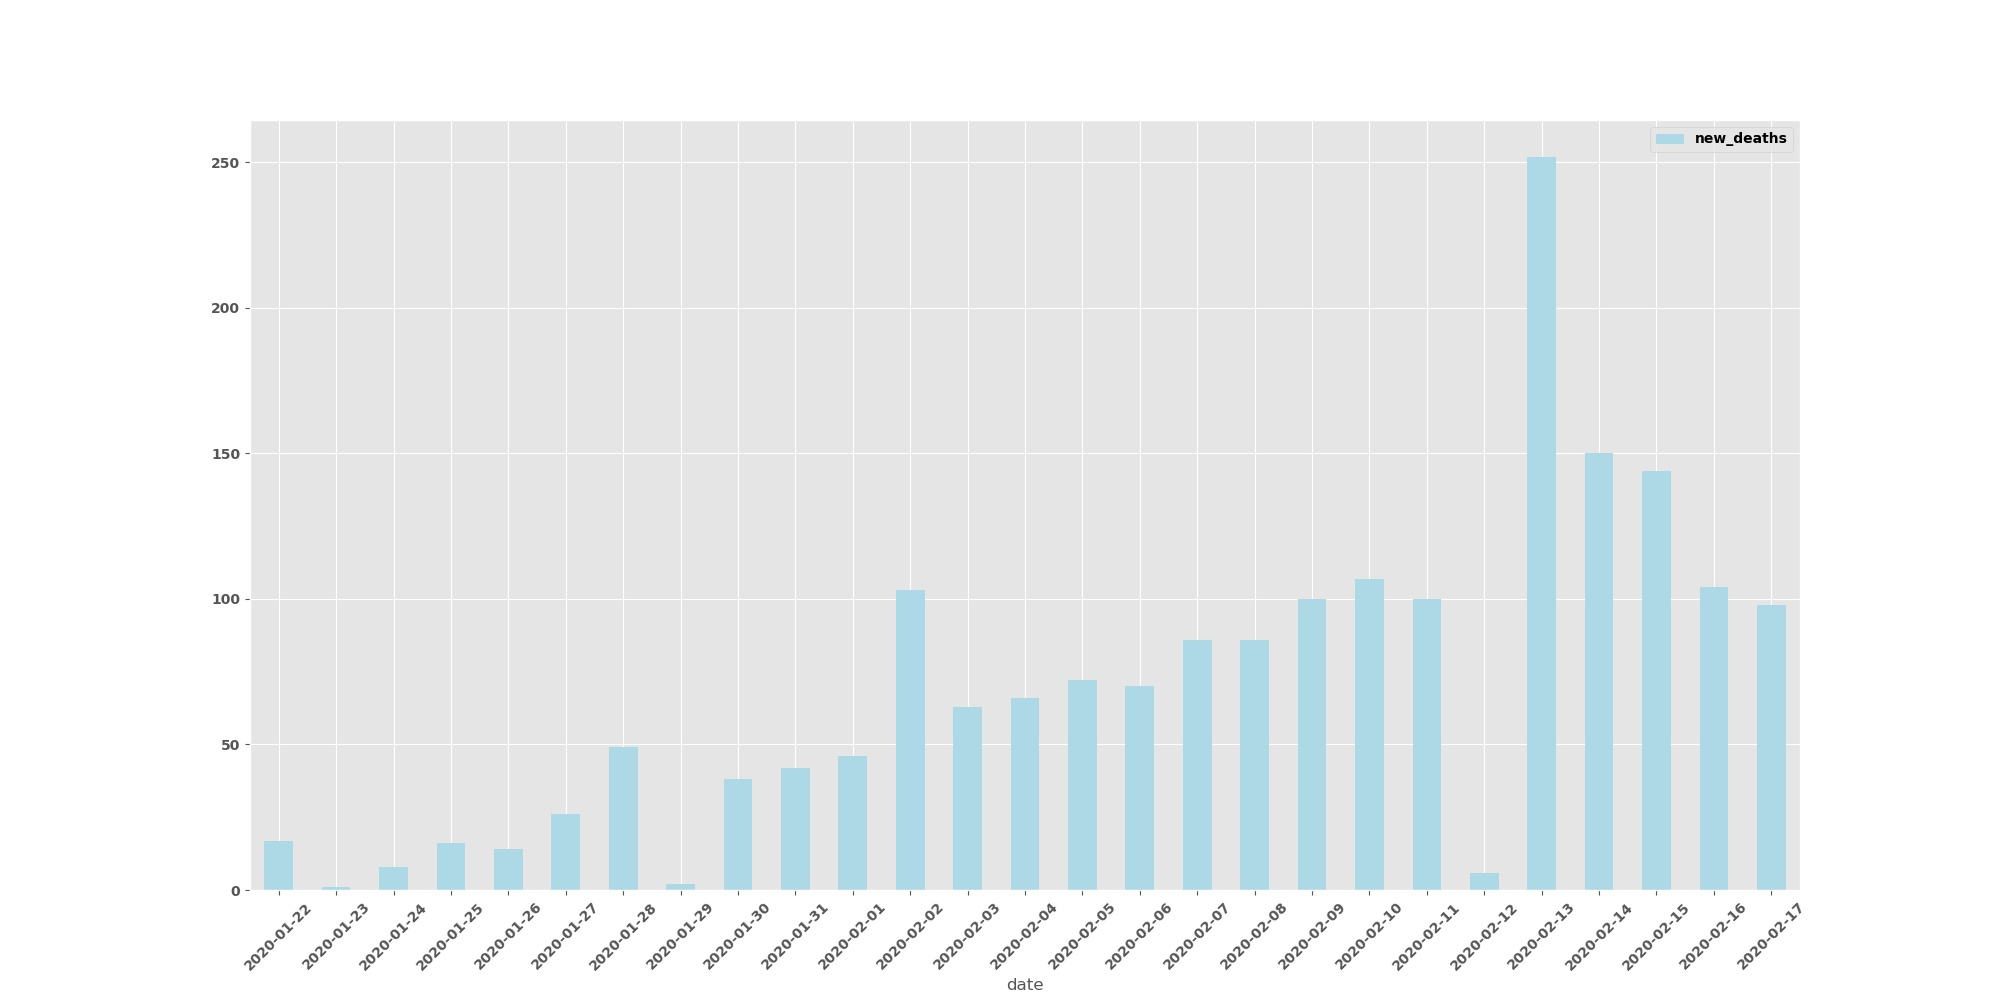
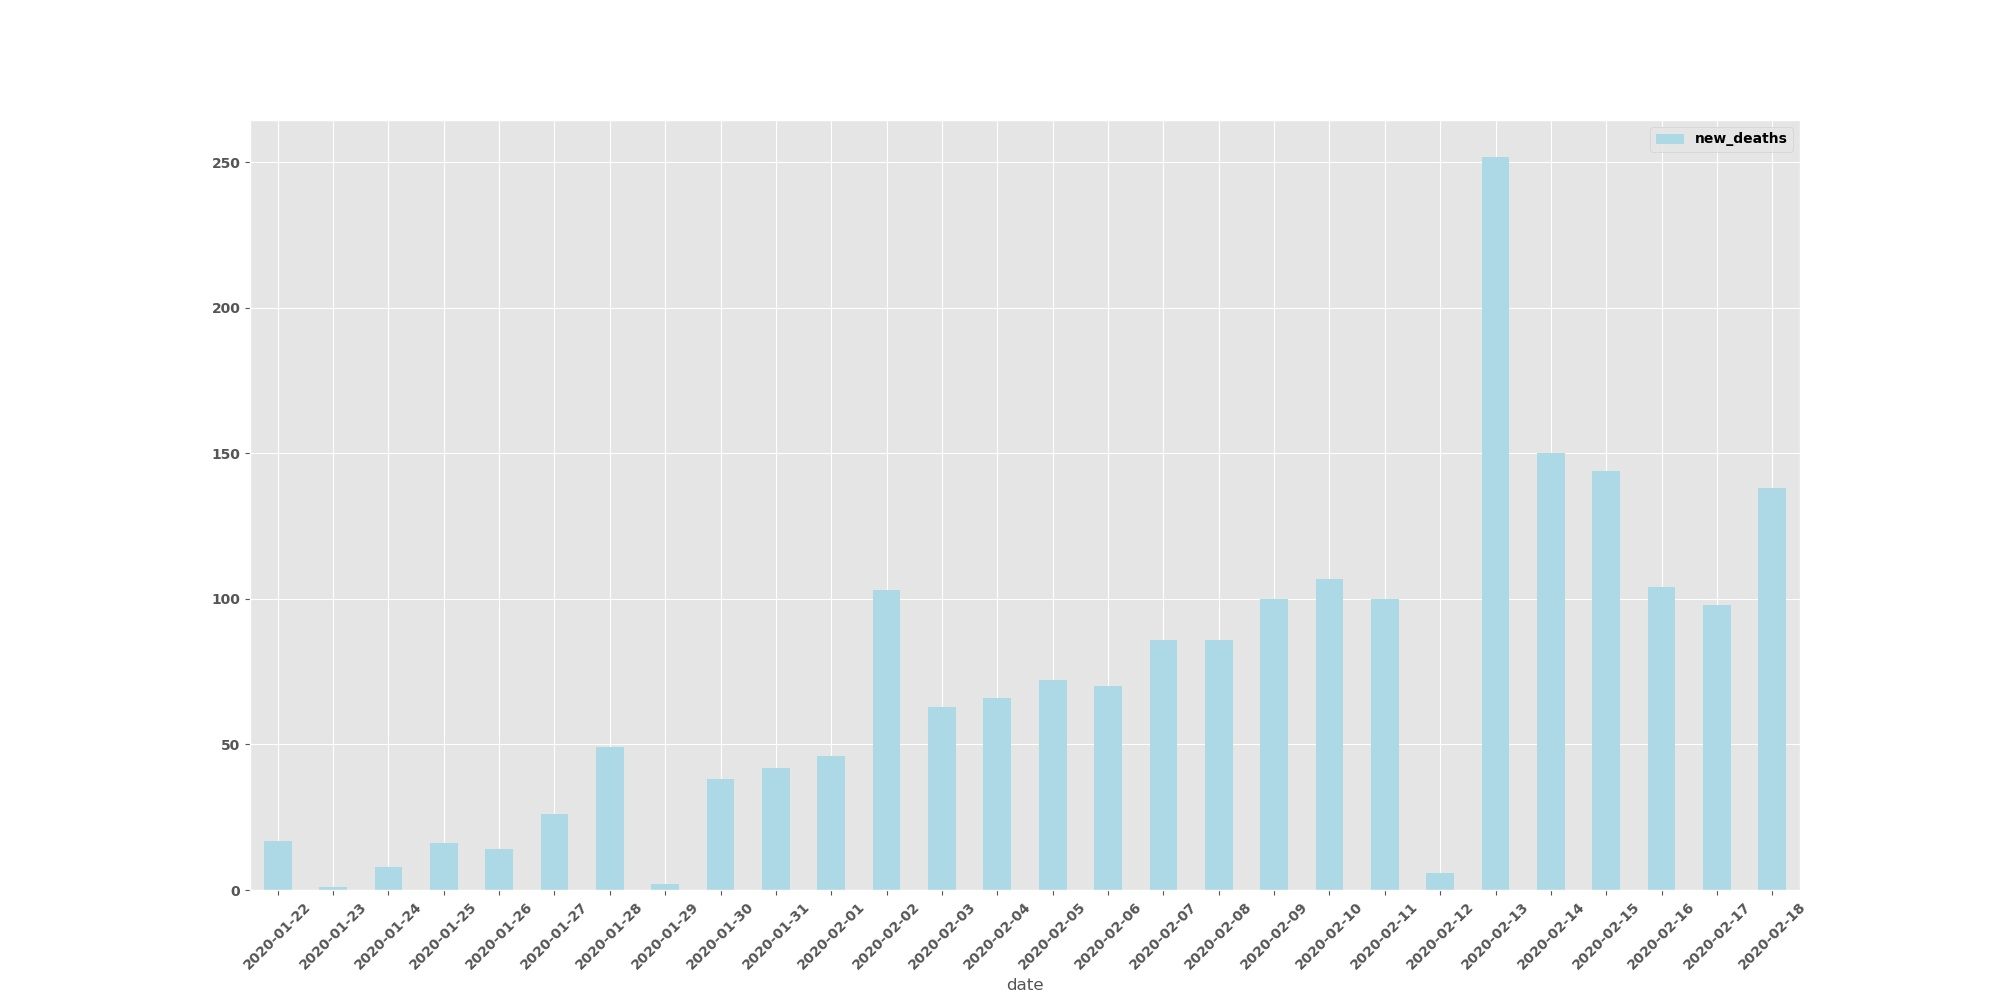
ADD - added report for 18th

Changed region(s): [[0.124, 0.155, 0.899, 0.961]]

diff --git a/README.md b/README.md
@@ -25,7 +25,7 @@ This plots will be updated <u>daily</u> to visualize the trend in accumalitive s
 - **<i>Deaths</i>**
 - **<i>Recoveries.</i>**
 
-Last updated: `2020-02-18`
+Last updated: `2020-02-19`
 
 **Trend Line**
 
